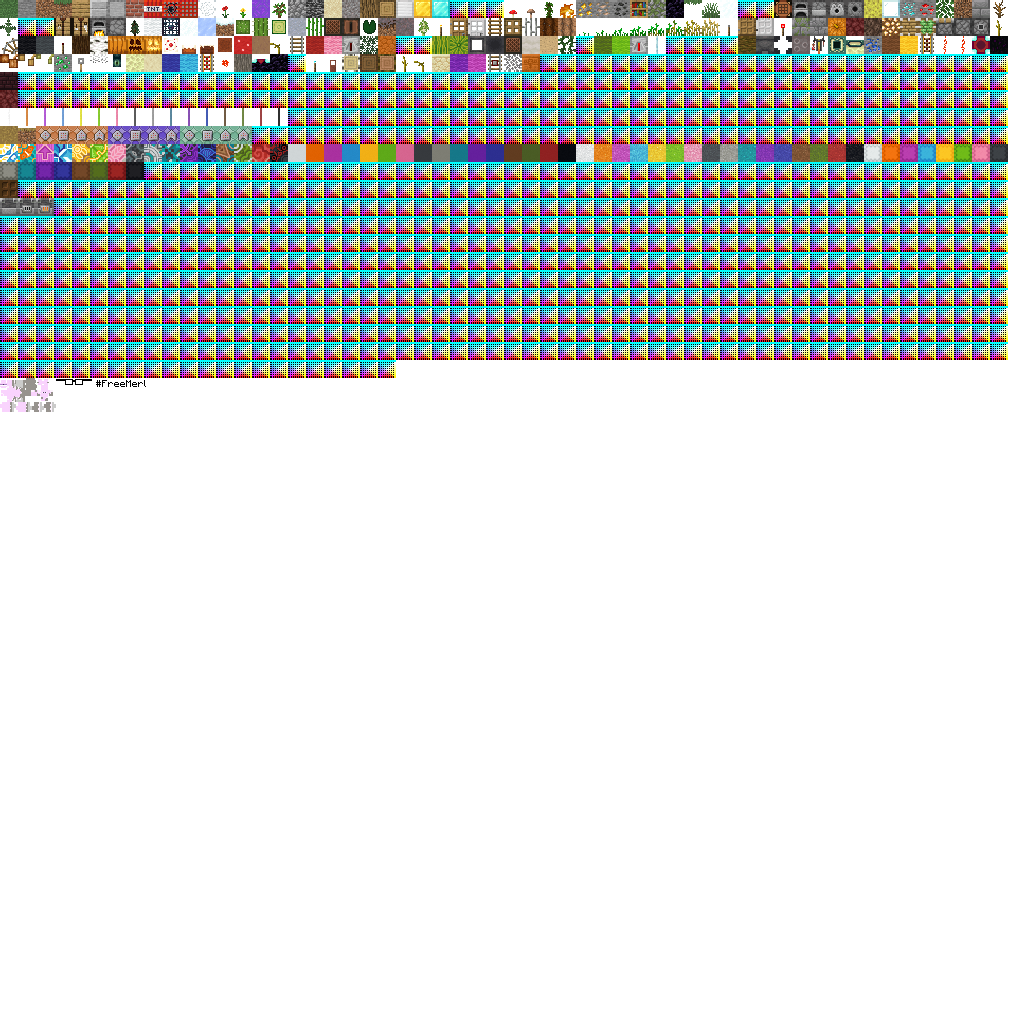
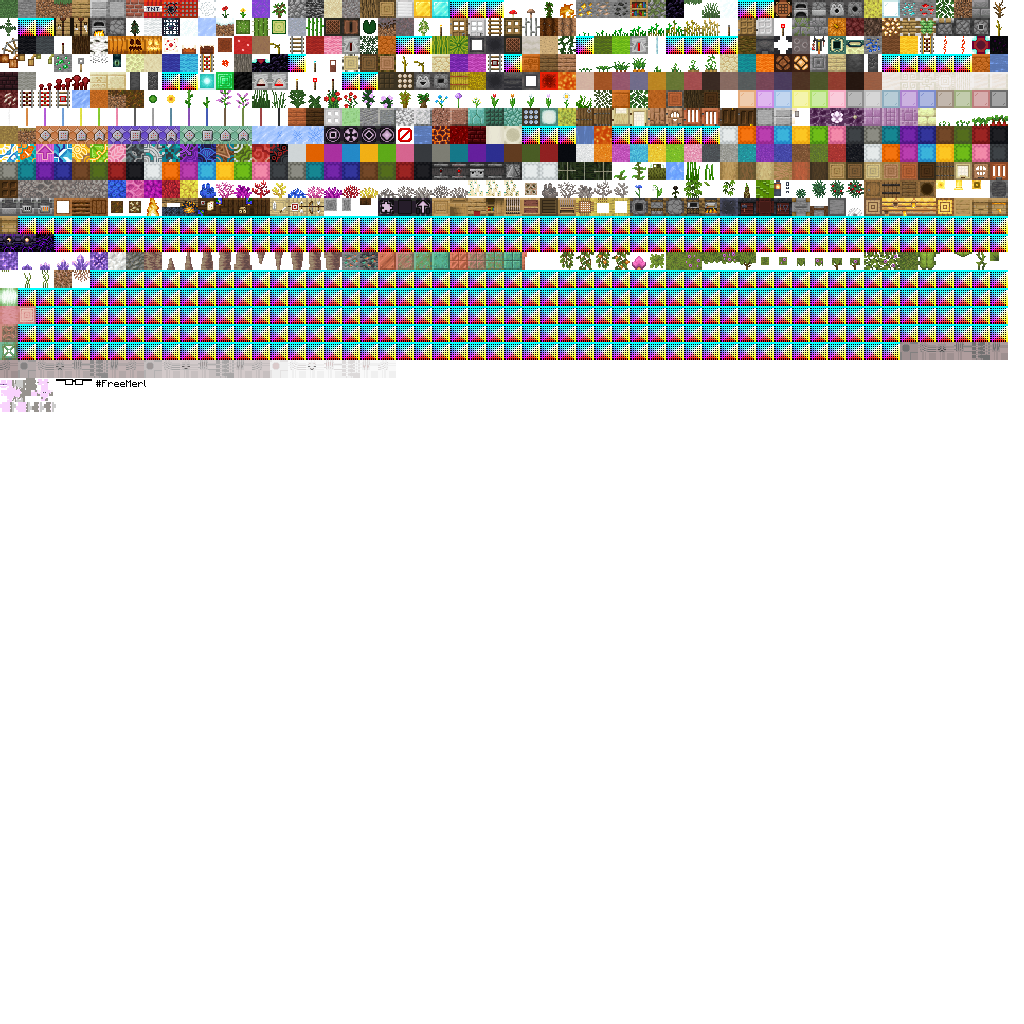
more textures

Changed region(s): [[0.0, 0.0312, 1.0, 0.375], [0.875, 0.3125, 1.0, 0.375]]

diff --git a/generate.js b/generate.js
@@ -2,7 +2,7 @@ import fs from "fs"
 import path from "path"
 import { Canvas, loadImage } from "skia-canvas"
 
-const sourceDir = "C:/Users/ewanh/AppData/Roaming/.minecraft/resourcepacks/1.21.10/assets/minecraft/textures/block"
+const sourceDir = "C:/Users/ewanh/AppData/Roaming/.minecraft/resourcepacks/1.21.10/assets/minecraft/textures"
 const mappingPath = "./mapping.json"
 const tintsPath = "./tints.json"
 const basePath = "./base.png"
@@ -27,8 +27,13 @@ const cols = Math.floor(baseImg.width / SLOT)
 let x = 0
 let y = 0
 
-for (const name of names) {
-  const img = await loadImage(path.join(sourceDir, name + ".png"))
+for (let name of names) {
+  let img
+  if (name.includes("/")) {
+    img = await loadImage(path.join(sourceDir, name + ".png"))
+  } else {
+    img = await loadImage(path.join(sourceDir, `block/${name}.png`))
+  }
 
   const dx = x * SLOT
   const dy = y * SLOT
